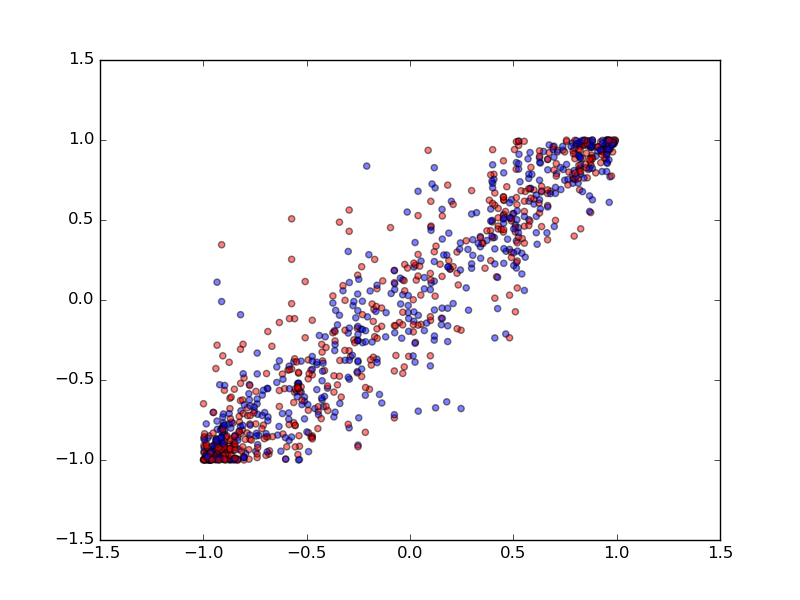
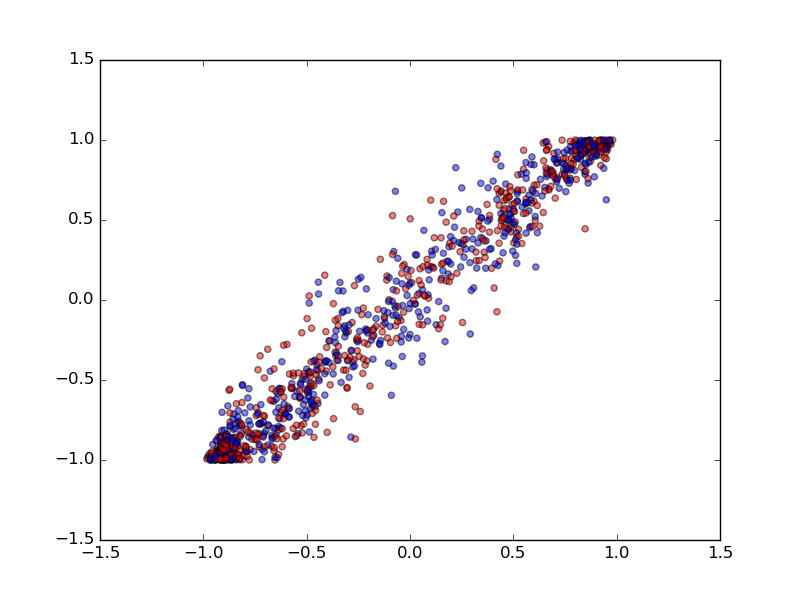
updated baglearner

diff --git a/mc3_p1/BagLearner.py b/mc3_p1/BagLearner.py
@@ -20,28 +20,25 @@ class BagLearner(object):
         self.kwargs = kwargs
         self.bags = 20
 
-        self.X_bags = []
-        self.Y_bags = []
-
     def addEvidence(self,dataX,dataY):
         """
         @summary: Add training data to learner, append to existing
         @param dataX: X values of data to add
         @param dataY: the Y training values
         """
-        self.X = dataX
-        self.Y = dataY
+        self.X = np.array(dataX)
+        self.Y = np.array(dataY)
+        self.X_bags = []
+        self.Y_bags = []
 
-        tmpX = np.array(self.X)
-        tmpY = np.array(self.Y)
 
-        X_index = np.arange(start=0, stop=tmpX.shape[0])
+        X_index = np.arange(start=0, stop=self.X.shape[0])
         # if bagging selected then add distribution of points here
         for b in range(self.bags):
             #create bags here with data with replacement
             tmp_index = np.random.choice(X_index, size=X_index.shape[0], replace=True)
-            self.X_bags.append(tmpX[tmp_index]) #adds new bag of values to list
-            self.Y_bags.append(tmpY[tmp_index])
+            self.X_bags.append(self.X[tmp_index])
+            self.Y_bags.append(self.Y[tmp_index])
 
     def query(self,points):
         """
@@ -54,17 +51,14 @@ class BagLearner(object):
 
         kwargs = self.kwargs
         learners_list = []
-        for i in range(0,self.bags):
-            learners_list.append(self.learner(**kwargs))
-
         pred = []
-        for learn in learners_list:
-            learn.addEvidence(self.X_bags[i], self.Y_bags[i])
-            pred.append(learn.query(points)) #outputs estimate for points related to a set of bags
+        for i in range(0,self.bags):
+            #learners_list.append(self.learner(**kwargs))
+            l = self.learner(**kwargs)
+            l.addEvidence(self.X_bags[i], self.Y_bags[i])
+            pred.append(l.query(points)) #outputs estimate for points related to a set of bags
 
-        pred_array = np.array(pred)
-
-        predY_bags = np.average(pred_array, axis=0)
+        predY_bags = np.average(np.array(pred), axis=0)
         return predY_bags
 
 if __name__== "__main__":

diff --git a/mc3_p1/KNNLearner.py b/mc3_p1/KNNLearner.py
@@ -6,6 +6,7 @@ gaTech
 
 import numpy as np
 import math
+from scipy.spatial import distance
 
 class KNNLearner(object):
 
@@ -39,18 +40,13 @@ class KNNLearner(object):
 
         #create zero array with size of points for Y predicted values
         predY = []
-        t_dist = []
 
         # for loop to calculate Euclidean distance between query point and all
         for p in points:
-            for x in arrayX:
-                t_dist.append(np.linalg.norm(p - x)) #numpy calculate distance
+            d = distance.cdist(arrayX, np.reshape(p, newshape=(1,2)), metric='euclidean')
 
-            t_dist_array = np.array(t_dist)
-            sortdistindex = t_dist_array.argsort(axis=0)[:self.k][::-1]
+            sortdistindex = d.argsort(axis=0)[:self.k][::-1]
             predY.append(np.average(arrayY[sortdistindex]))
-
-            t_dist = []
 
 
         # return array of predicted Y

diff --git a/mc3_p1/bagtests.py b/mc3_p1/bagtests.py
@@ -27,7 +27,7 @@ def t_generator(k, nbags):
         sy = sbag.fit(self.xtrain, self.ytrain).predict(self.xtest)
         y = learner.query(self.xtest)
         rmse = np.linalg.norm(sy - y) / np.sqrt(len(sy))
-        self.assertLess(rmse, .15)
+        self.assertLess(rmse, .22)
     return t
 
 

diff --git a/mc3_p1/testlearner.py b/mc3_p1/testlearner.py
@@ -57,7 +57,6 @@ if __name__=="__main__":
     print "RMSE: ", rmse
     c = np.corrcoef(predY_train, y=trainY)
     print "corr: ", c[0,1]
-    print predY_train[:3], trainY[:3]
     #create graph in sample comparing predicted and actual
     plot_scatter(predY_train, trainY, 'in_sample')
 
